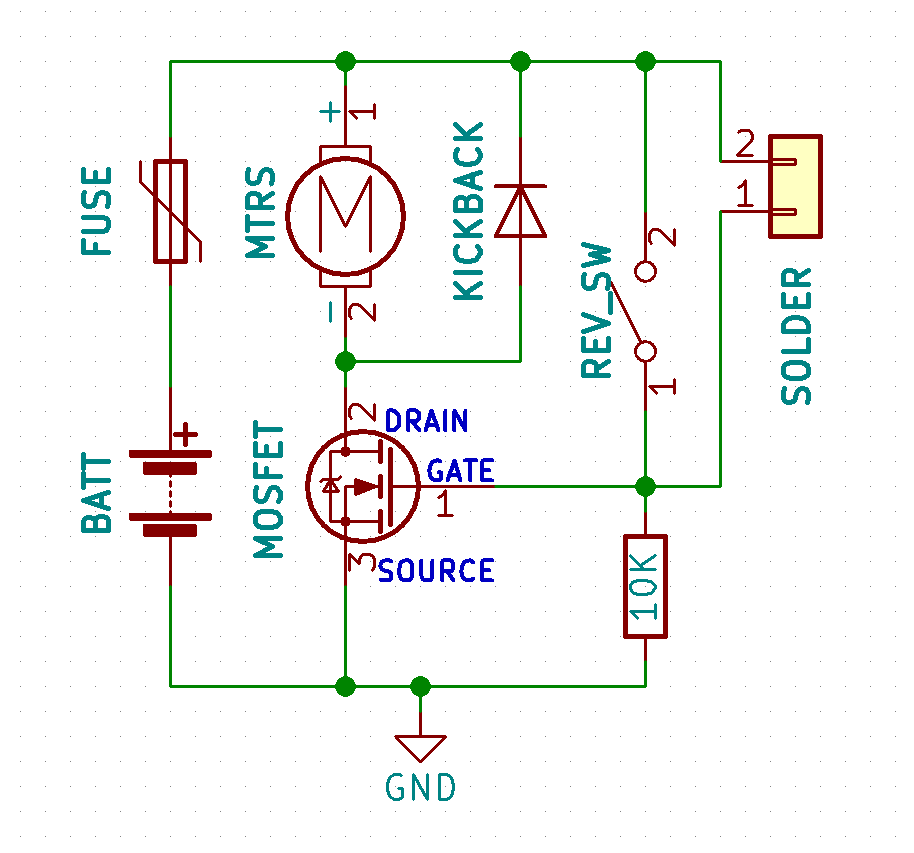
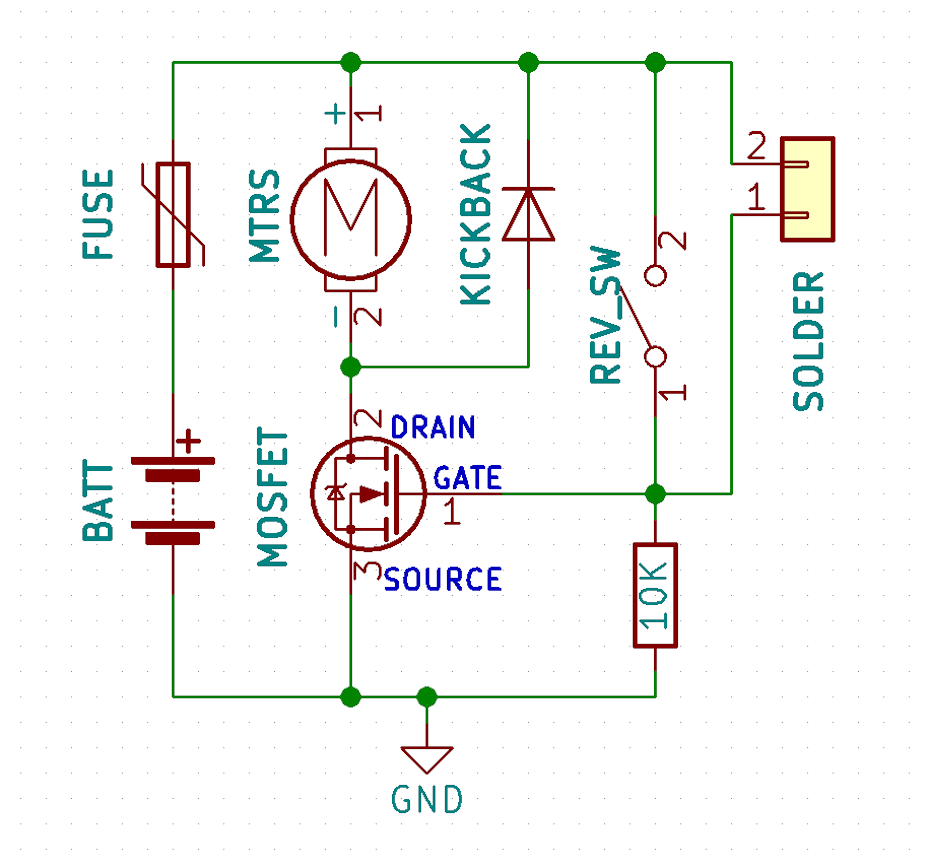
Updates

diff --git a/projects/Nerf/ArduStryfe_MOSFET/readme.md b/projects/Nerf/ArduStryfe_MOSFET/readme.md
@@ -7,7 +7,6 @@ Main Board
 ----------------
 - 1 ea., 1N4001 1A Gen Purpose diode, https://www.digikey.com/short/p9ffm9
 - 1 ea., MOSFET N-CH 30V 62A TO-220AB, Infineon IRLB8721PBF, https://www.digikey.com/short/p4fhcm
-- 1 ea., PTC RESET FUSE 16V 900MA RADIAL, Littlefuse RUSBF090-2, https://www.digikey.com/short/p5vbvt
 - 1 ea., PTC RESET FUSE, based on use case:
   - 2.5A @ 2s: AHEF050: https://www.digikey.com/short/prwn0r
   - 3.5A @ 2s: AHEF070: https://www.digikey.com/short/prwnv9
@@ -16,7 +15,6 @@ Main Board
 - 1 ea., 10K Resistors, 1/8W 5% generic, https://www.digikey.com/short/p4frj2 
 - 1 ea., 2POS Picoblade vertical header, https://www.digikey.com/short/p9twrj
 - 1 ea., 2POS PicoBlade housing, https://www.digikey.com/short/p4wz0d
-
 - 2 ea., 12" PRE-CRIMP 1852 BLACK, https://www.digikey.com/short/pbfbnd
 
 
